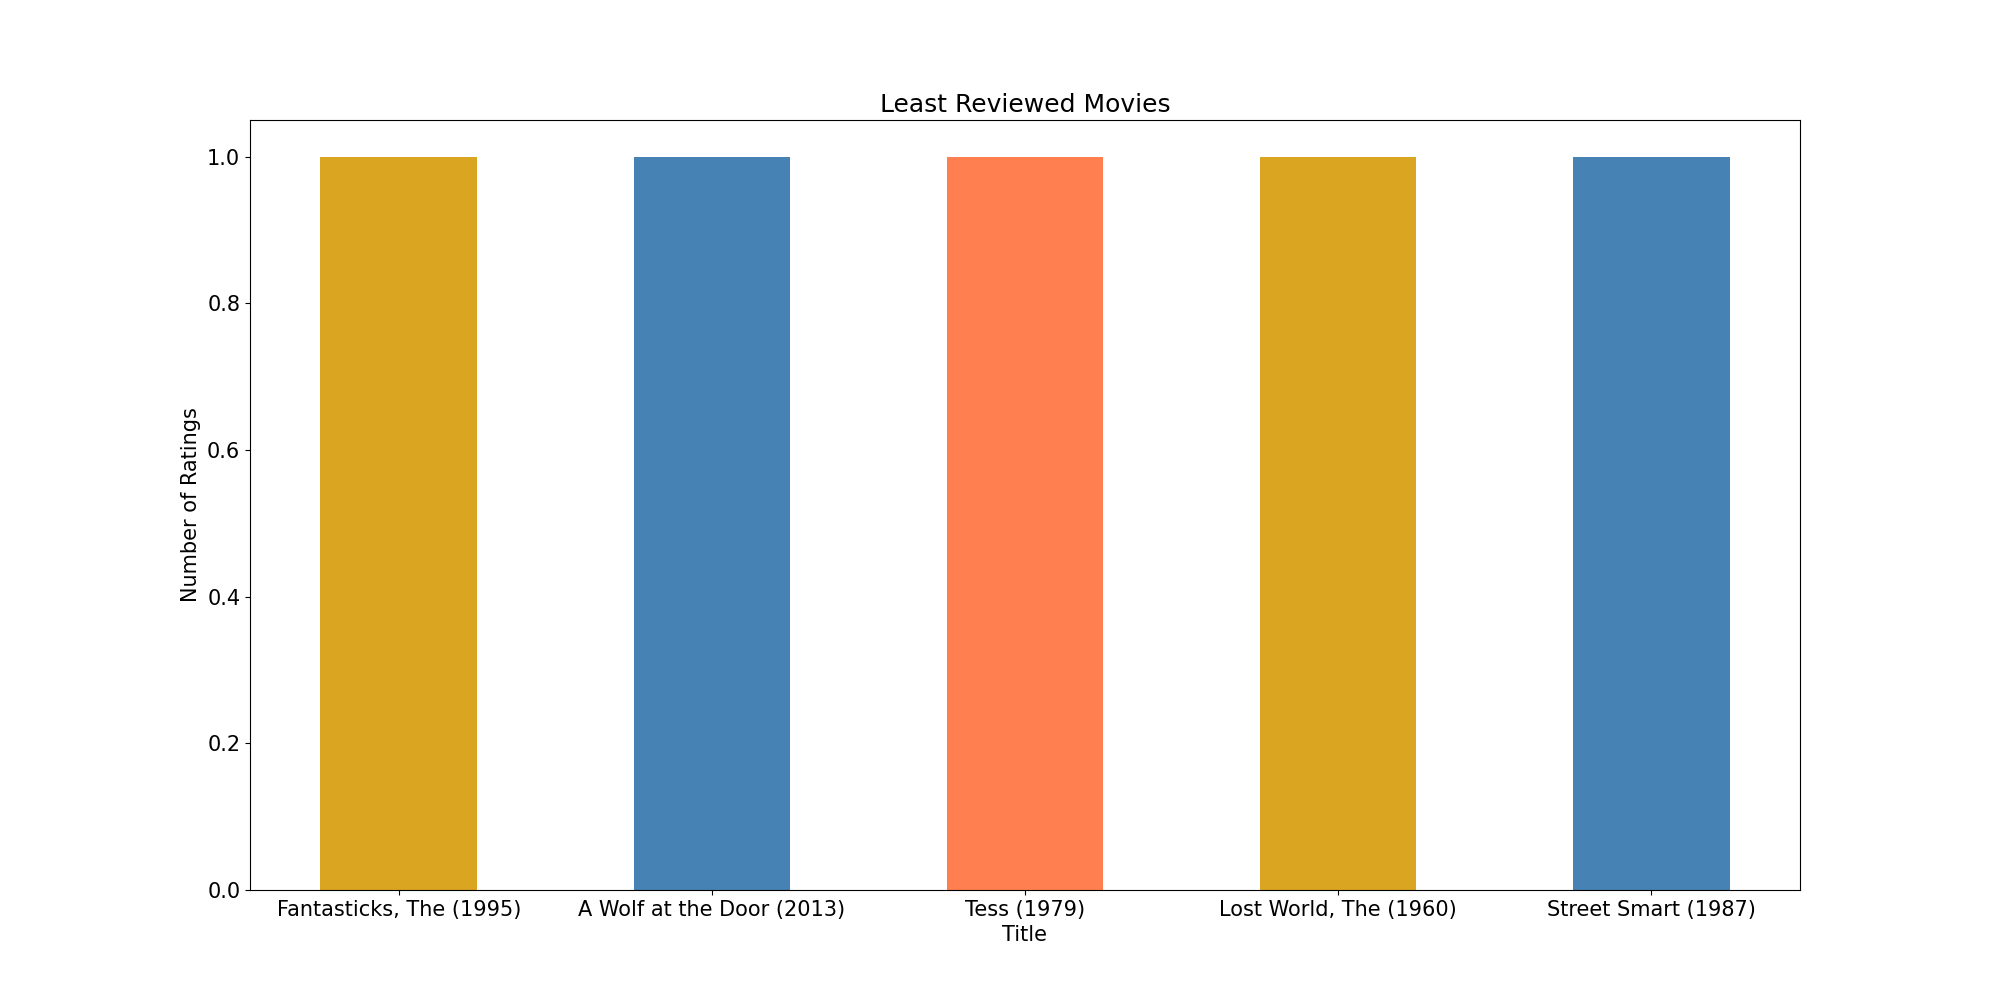
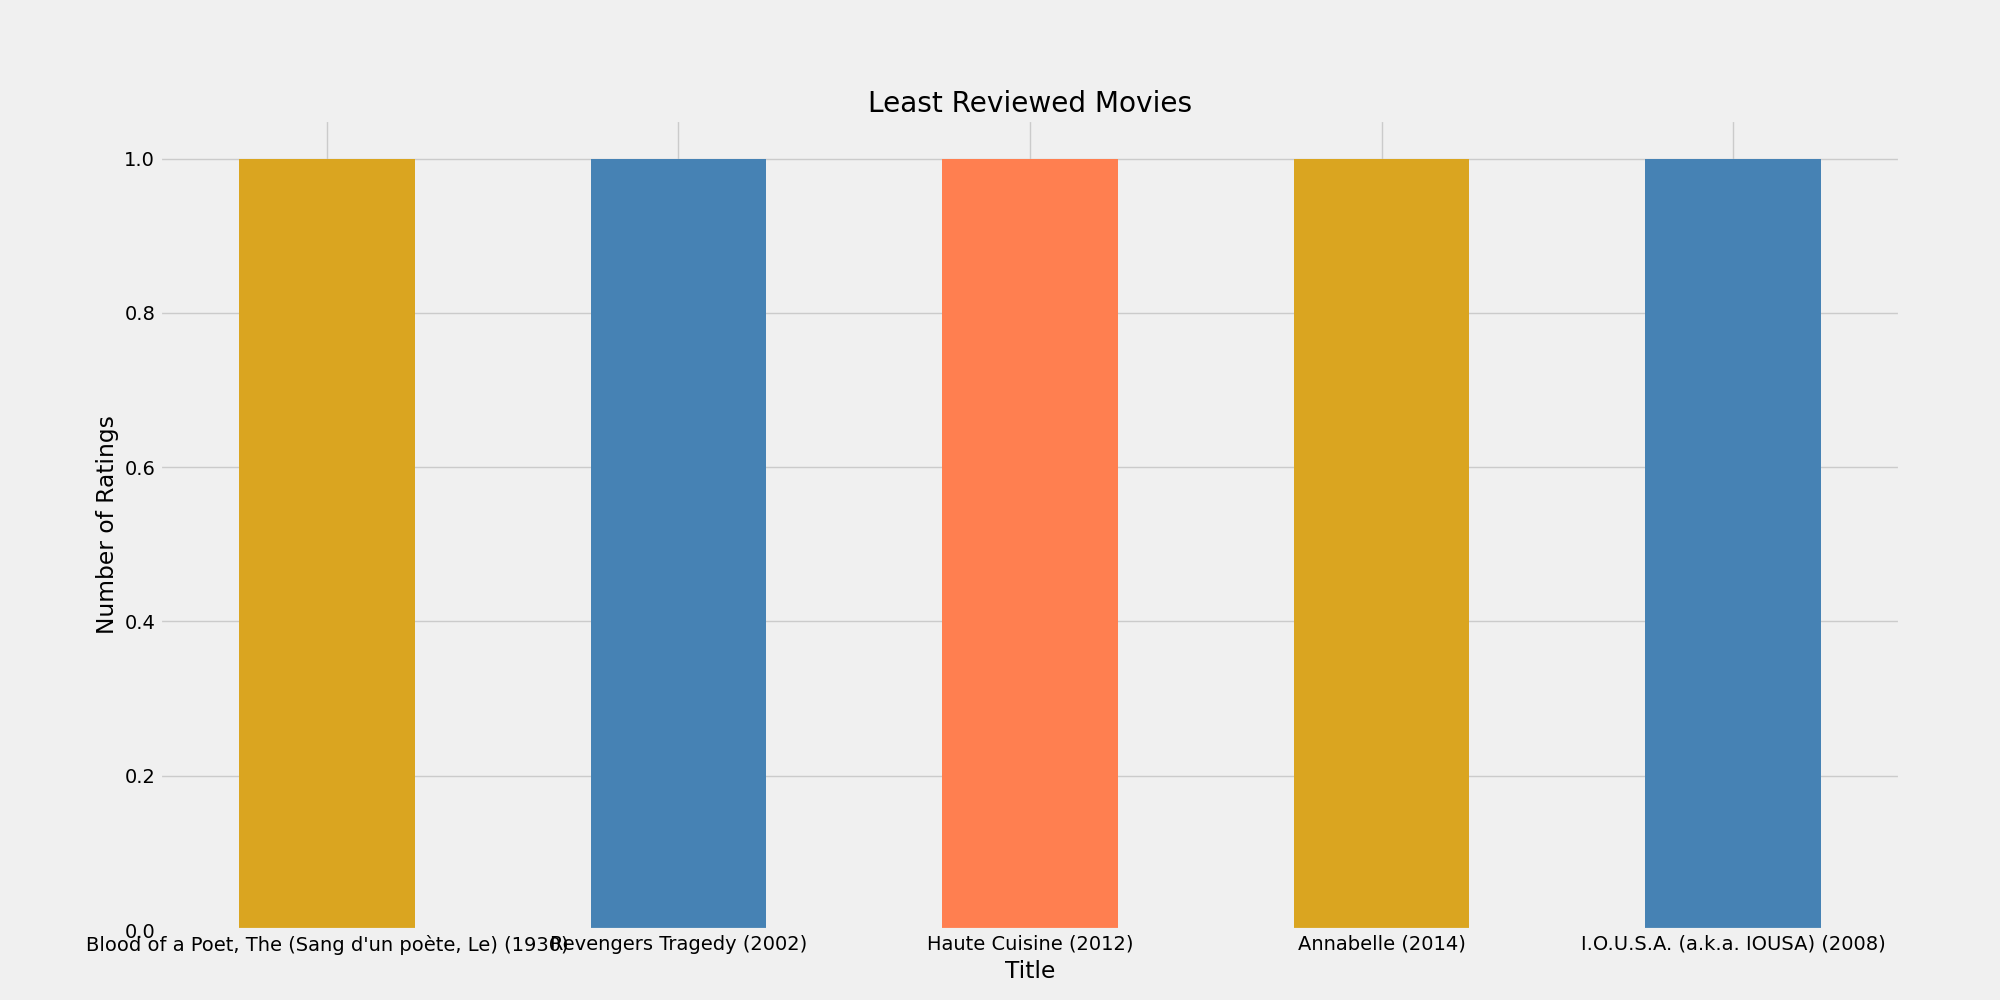
Small Changes

diff --git a/Application/Movies.py b/Application/Movies.py
@@ -16,6 +16,8 @@ class MoviesData:
         self.ratings = pd.read_csv("../Data/ratings.csv")
         self.movies = pd.read_csv("../Data/movies.csv")
         plt.rcParams['font.size'] = 15
+        plt.rc('axes', labelsize=20)
+        plt.style.use('fivethirtyeight')
 
     def get_movie_names(self):
         movie_names = list(self.movies['title'])
@@ -132,7 +134,7 @@ class MoviesData:
         return path  # For each star rating, how many movies in each category
 
     def highest_rated_movies(self):
-        path = '../highest_rated_movies.png'
+        path = '../Images/highest_rated_movies.png'
         if not os.path.exists(path):
             highest = pd.merge(self.movies, self.ratings, left_on='movieId', right_on='movieId').drop(['userId',
                                                                                                        'timestamp',
